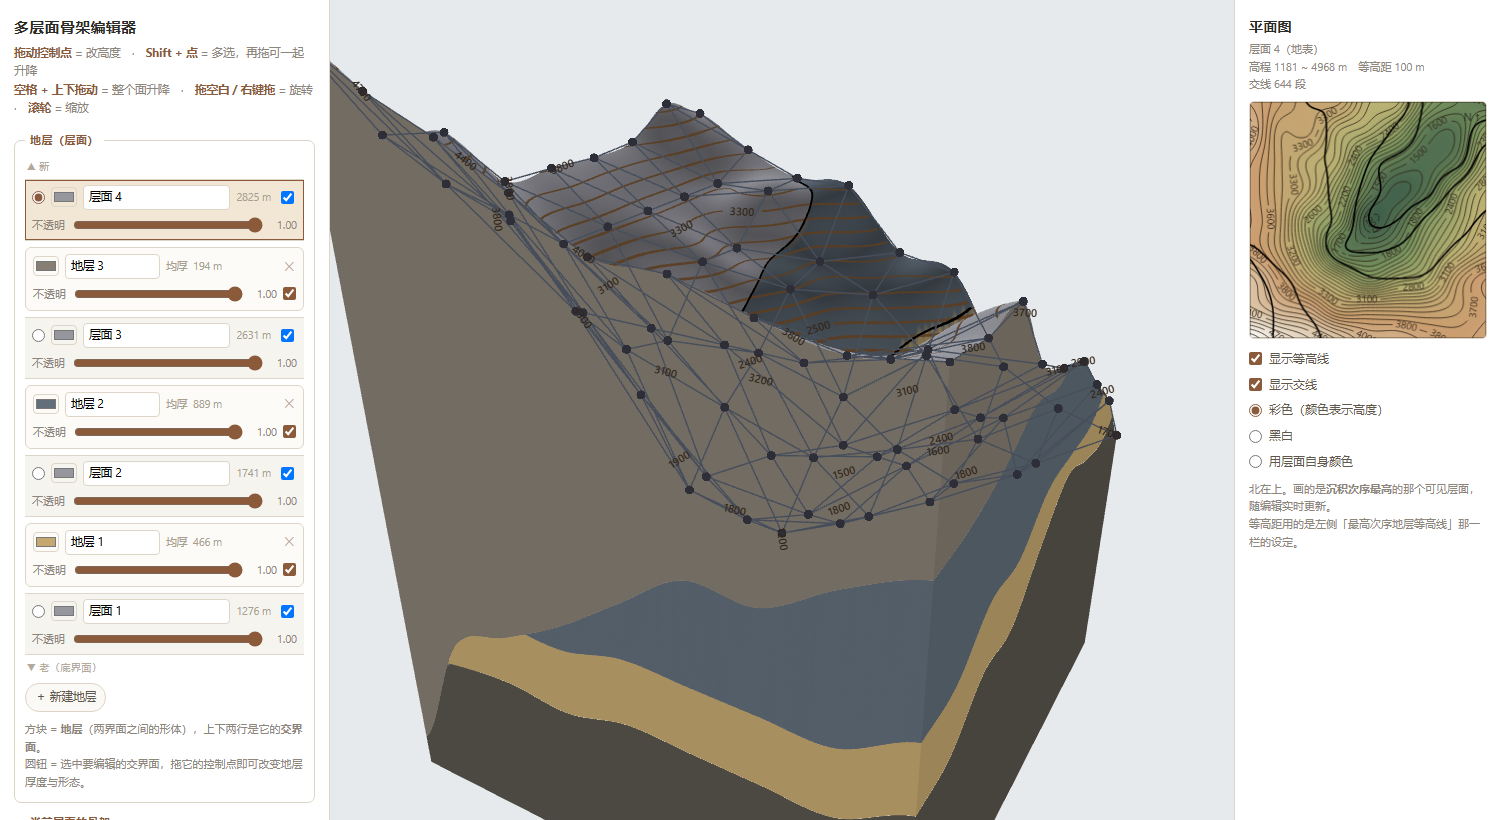
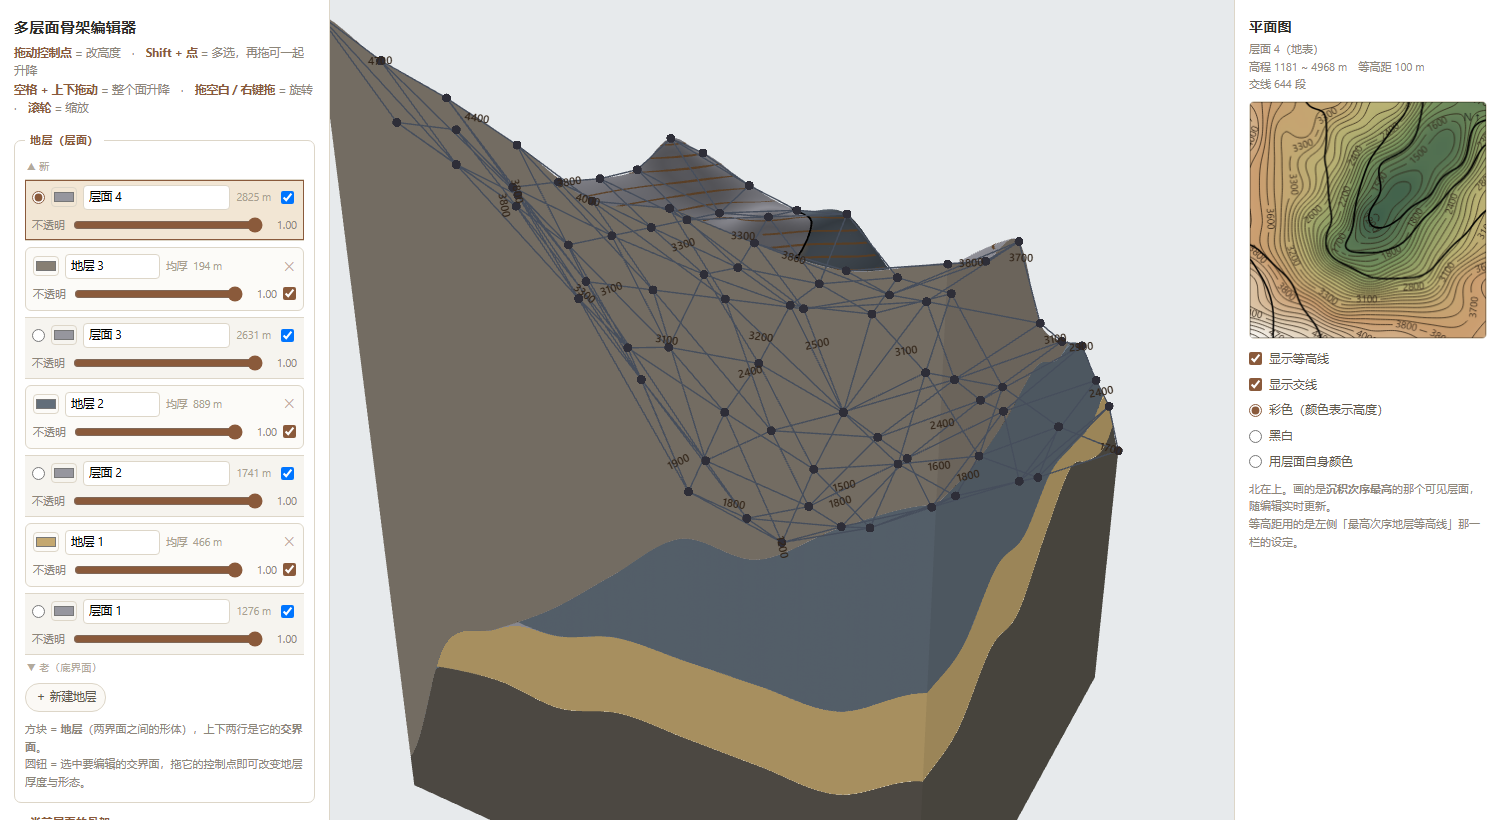
剖面分界线的锯齿：C_k 改用软最小值
用户问：为什么剖面上的分界线有锯齿，而顶面上那条很光滑。

量下来原因是两条线根本不是一套东西：
  顶面那条 = 交线窄带（marching squares 缝折线 → Laplacian 平滑两遍 → 加密一倍）
  剖面那条 = 根本没有被"画"，它是侧壁被规则裁掉后剩下的网格几何边

而那条几何边的折角是真的：C_k = min(几个界面)，两个界面交叉处 min 会"换主人"，
曲线于是出现真正的折角。实测拐折：地层0 平均 13.4 / 最大 465 m，
地层1 平均 22.2 / 最大 782 m；而界面自己的迹线只有 2 m 左右。

修法：C_k 用【软最小值】而不是硬 min。
  C_k = m − soften·ln( Σ exp(−(z_i − m)/soften) ),  m = min(z_i),  soften = 一个网格步长
它是光滑的，折角被抹圆；而且它恒 ≤ 硬 min，所以只会裁得更保守，
绝不会多显示任何东西（这条专门写了断言）。

扫了一下 soften 的取值（网格步长 41.7 m）：
  0.00×step  拐折 36/22/9 m   削掉 0.0 / 最大 0.0 m
  0.50×step  拐折 24/ 7/9 m   削掉 0.1 / 最大 13.2 m
  1.00×step  拐折 15/ 7/9 m   削掉 0.6 / 最大 27.6 m   ← 选它
  1.50×step  拐折 11/ 7/9 m   削掉 1.4 / 最大 42.0 m
1.0×step：拐折降一半以上，平均只削 0.6 m，最坏一列 27.6 m（只在交叉处）。

检验 148 项全过。新增断言：
  软最小值恒 ≤ 硬 min（0 个点偏到硬 min 之上，最大削掉 25.9 m）
  软化幅度在一个网格步长以内（不会把模型削太多）

Changed region(s): [[0.2147, 0.0305, 0.7667, 1.0], [0.2147, 0.1829, 0.2453, 0.4878], [0.368, 0.8537, 0.4293, 0.8841]]

diff --git a/test/skeleton-check.js b/test/skeleton-check.js
@@ -346,9 +346,15 @@ console.log("\n─── I. 沉积次序透明规则 ───");
      【剖面（侧壁）】按岩体算（规则管面、不管岩体）：场 = min(本层厚度, 顶点高程 − 最下面那个界面)
      —— 岩体在那儿就画出来，所以剖面铺满。 */
   const Lm0 = api.mapL(), nn = NS+1, lastK = S.strata.length-1;
+  /* C_k 用【软最小值】：硬 min 在两个界面交叉处会换主人、曲线出现真折角，
+     剖面上那条分界线就一节一节地拐（"锯齿"）。软最小值恒 ≤ 硬 min，只会裁得更保守。 */
+  const SF = Math.max(1, api.mapL()/NS);
   const Cof = (k,q) => { let lo=Infinity;
     for (let i=k+1;i<ii.length;i++){ const z=ii[i].Z[q]; if (z<lo) lo=z; }
-    return isFinite(lo) ? lo : ii[k].Z[q]; };
+    if (!isFinite(lo)) return ii[k].Z[q];
+    let s = 0;
+    for (let i=k+1;i<ii.length;i++) s += Math.exp(-(ii[i].Z[q]-lo)/SF);
+    return lo - SF*Math.log(s); };
   let layerBad = 0, layerGone = 0, layerAlive = 0, capOver = 0, wallUnder = 0;
   for (let k=0;k<S.strata.length;k++) {
     const mm = api.meshStrata[k];
@@ -373,6 +379,26 @@ console.log("\n─── I. 沉积次序透明规则 ───");
         layerBad === 0, `${layerBad} 个不符`);
   check("【面与剖面都不高过 C_k】—— 不该显示的岩体没有显示",
         capOver === 0, `${capOver} 个顶点越界`);
+
+  /* 【软最小值必须是"往保守那边偏"】：它恒 ≤ 硬 min，所以绝不会多显示任何东西。
+     顺带量一下剖面分界线的拐折（"锯齿"就是这个）。 */
+  {
+    const hardCof = (k,q) => { let lo=Infinity;
+      for (let i=k+1;i<ii.length;i++){ const z=ii[i].Z[q]; if (z<lo) lo=z; }
+      return isFinite(lo) ? lo : ii[k].Z[q]; };
+    let over = 0, worstCut = 0;
+    for (let k=0;k<S.strata.length;k++) {
+      for (let q=0;q<SZ;q++) {
+        const soft = Cof(k,q), hard = hardCof(k,q);
+        if (soft > hard + 1e-6) over++;
+        worstCut = Math.max(worstCut, hard - soft);
+      }
+    }
+    check("软最小值恒 ≤ 硬 min（只会裁得更保守，绝不会多显示）",
+          over === 0, `${over} 个点偏到了硬 min 之上，最大削掉 ${worstCut.toFixed(1)} m`);
+    check("软化幅度不至于削太多（一个网格步长以内）",
+          worstCut < api.mapL()/NS*1.5, `最大削掉 ${worstCut.toFixed(1)} m`);
+  }
   check("确实有被裁掉的部分（构造有效，不是空跑）", layerGone > 0,
         `${layerAlive} 个实心 / ${layerGone} 个不画`);
   check("min 场仍然保留（供面板统计用），但渲染已经不用它了",
@@ -901,9 +927,13 @@ console.log("\n─── I3. 地层实体：一个界面之上只能出现层序
   const thickAt = (k,q) => Z[k+1][q] - Z[k][q];
   const envOf = q => { let hi=-Infinity;
     for (let i=0;i<Z.length;i++){ if (Z[i][q]>hi) hi=Z[i][q]; } return hi; };
+  const SF2 = Math.max(1, Lm/NS);
   const Cof2 = (k,q) => { let lo=Infinity;
     for (let i=k+1;i<Z.length;i++){ if (Z[i][q]<lo) lo=Z[i][q]; }
-    return lo; };
+    if (!isFinite(lo)) return Z[k][q];
+    let s = 0;
+    for (let i=k+1;i<Z.length;i++) s += Math.exp(-(Z[i][q]-lo)/SF2);
+    return lo - SF2*Math.log(s); };
   const wantAt = (k,q,z,v) => {
     if (k === S.strata.length-1 && v < SZ) return 1e9;        // 地表面本身
     return Math.min(Cof2(k,q) - z, thickAt(k,q));             // 面与剖面同一条

diff --git a/index.html b/index.html
@@ -635,14 +635,27 @@ function buildStratum(k) {
        · 地表之上不许有东西：C_k ≤ 地表高程（地表是 i>k 里的一员），
          顶点高过地表就判负 → 剪掉
   /* 【岩石】的场 = min( C_k − 顶点高程 , 本层厚度 )
-       C_k(x,y) = min over i>k of （界面 i 的高程）  比本层年轻的界面里最低的那个
+       C_k(x,y) = 比本层年轻的那些界面里【最低】的那个
      —— 这就是"一个界面之上只能显示层序更高的岩层"。不该显示的（高过 C_k 的）
-     以及本层尖灭的部分，一律不画。面（顶/底面）和剖面（侧壁）都用这一条。 */
+     以及本层尖灭的部分，一律不画。面（顶/底面）和剖面（侧壁）都用这一条。
+
+     C_k 用【软最小值】而不是硬 min。硬 min 在两个界面交叉处会"换主人"，
+     曲线于是出现真正的折角 —— 剖面上那条分界线就一节一节地拐，看着就是锯齿
+     （实测拐折平均 13~22 m、最大 465~782 m，而界面本身的迹线只有 2 m 左右）。
+     软最小值是光滑的，折角被抹圆；而且它恒 ≤ 硬 min，所以只会裁得更保守，
+     绝不会多显示任何东西。两个界面离得远时它几乎等于硬 min。
+     soften 取一个渲染网格步长。实测（截图那个模型）：
+       拐折最大 36/22/9 m  →  15/7/9 m
+       代价：平均只削掉 0.6 m，最坏一列 27.6 m（只在界面交叉处） */
+  const soften = Math.max(1, Lm/NS);
   const C = new Float32Array(SZ);
   for (let q=0;q<SZ;q++) {
-    let lo = Infinity;
-    for (let i=k+1;i<S.ifaces.length;i++) { const z = S.ifaces[i].Z[q]; if (z < lo) lo = z; }
-    C[q] = isFinite(lo) ? lo : bot.Z[q];
+    let m = Infinity;
+    for (let i=k+1;i<S.ifaces.length;i++) { const z = S.ifaces[i].Z[q]; if (z < m) m = z; }
+    if (!isFinite(m)) { C[q] = bot.Z[q]; continue; }
+    let s = 0;
+    for (let i=k+1;i<S.ifaces.length;i++) s += Math.exp(-(S.ifaces[i].Z[q] - m)/soften);
+    C[q] = m - soften*Math.log(s);
   }
   const thickAt = q => top.Z[q] - bot.Z[q];
   const fieldAt = (q, z) => {
